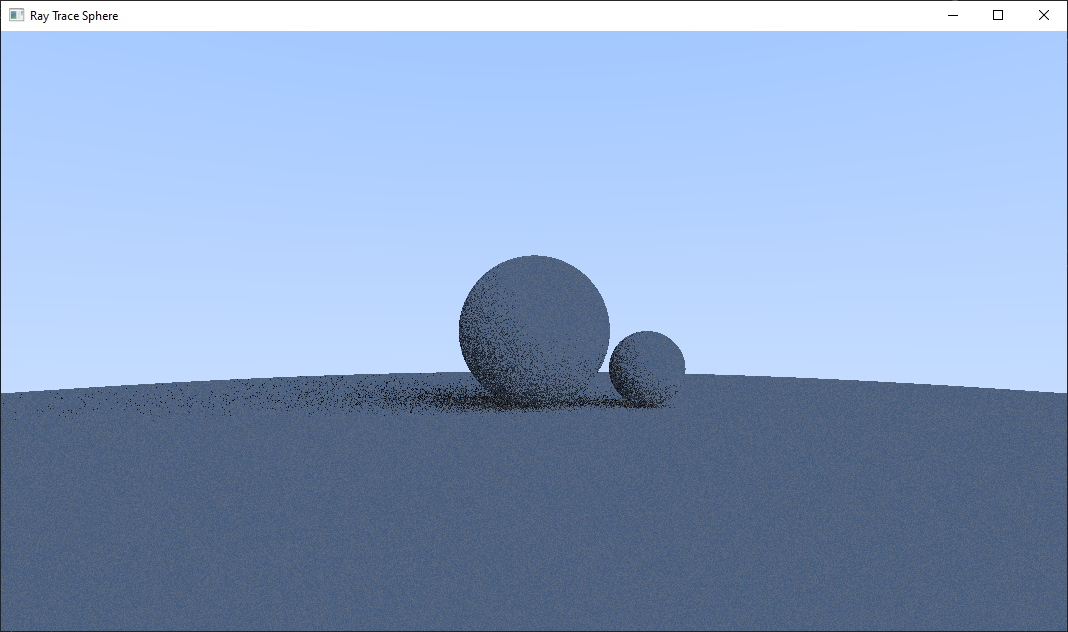
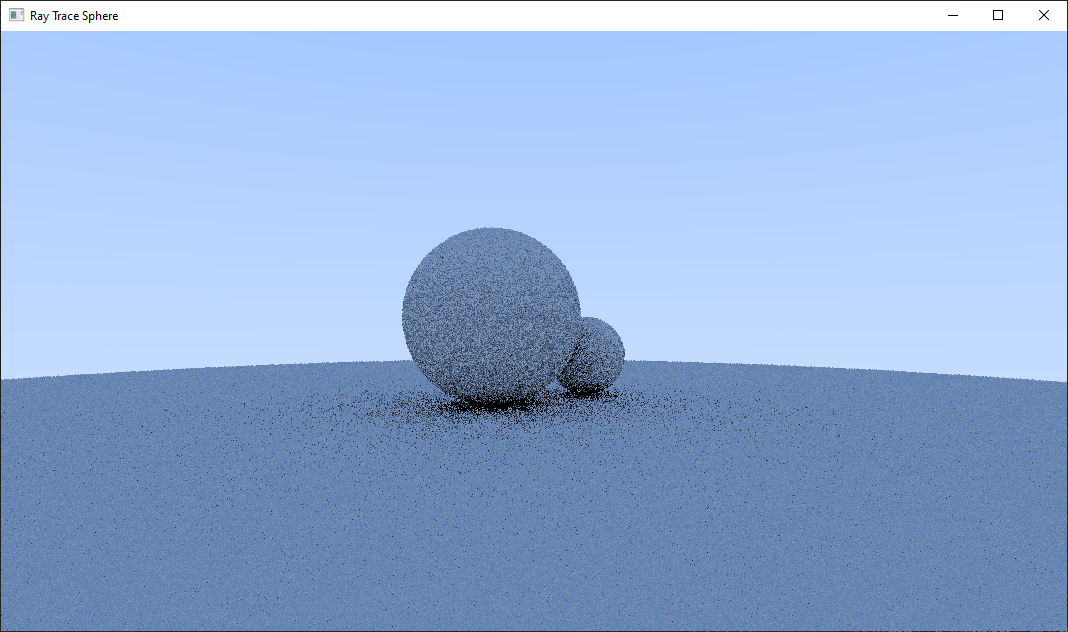
update ray tracing readme

diff --git a/README.md b/README.md
@@ -1,3 +1,9 @@
 # RayTracing
 A ray tracing engine written with OpenGL
 ![Diffuse materials](/pics/diffuse_materials.png "Diffuse materials")
+#### Ray tracing parameters (in `fshader.glsl`):
+ - t_min = 0.1. The minimum `t` to solve for ray intersection with object. Larger than 0 to deal with shadow acne.
+  - rayStrength. Times 0.7 after each bounce. The lower the darker the scene.
+  - maxRayBounce = 10. Limit number of ray bounce.
+#### Anti-aliasing parameters (in `RenderAttributes.h`):
+- samples_per_pixel = 100
